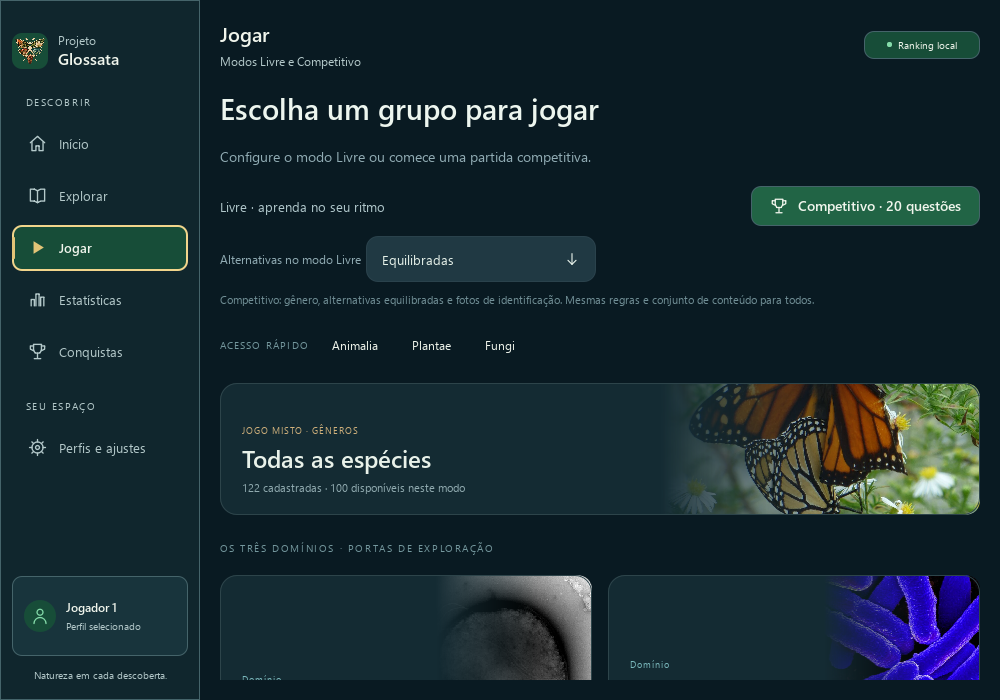
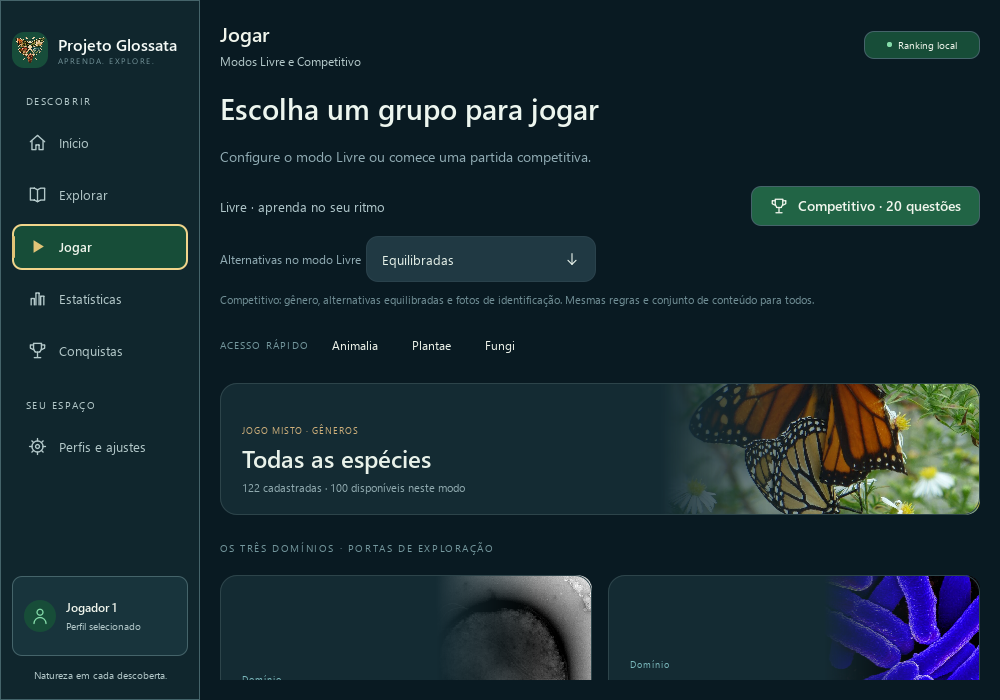
fix(ui): restaurar composição anterior da marca no PR 29

diff --git a/resources/qml/Main.qml b/resources/qml/Main.qml
@@ -164,13 +164,13 @@ ApplicationWindow {
                     Layout.bottomMargin: Style.Theme.spaceLg
                     spacing: Style.Theme.spaceSm
                     Rectangle {
-                        implicitWidth: 36; implicitHeight: 36; radius: Style.Theme.controlRadius; color: Style.Theme.forest
+                        implicitWidth: 36; implicitHeight: 36; radius: 12; color: "#174D3A"
                         Image { anchors.fill: parent; anchors.margins: 2; source: "qrc:/resources/branding/glossata.png"; fillMode: Image.PreserveAspectFit; smooth: true; mipmap: true }
                     }
                     ColumnLayout {
                         spacing: 0
-                        Label { text: "Projeto"; color: Style.Theme.textMuted; font.pixelSize: Style.Theme.captionSize }
-                        Label { text: "Glossata"; color: Style.Theme.text; font.pixelSize: Style.Theme.brandSize; font.weight: Font.DemiBold }
+                        Label { text: "Projeto Glossata"; color: "#F5FAF7"; font.pixelSize: Style.Theme.brandSize; font.weight: Font.DemiBold }
+                        Label { text: "APRENDA. EXPLORE."; color: "#739399"; font.pixelSize: 8; font.letterSpacing: 1.5 }
                     }
                 }
                 Label { text: "DESCOBRIR"; color: Style.Theme.textMuted; font.pixelSize: Style.Theme.sectionLabelSize; font.letterSpacing: 1.6; Layout.leftMargin: Style.Theme.navPadding; Layout.bottomMargin: Style.Theme.spaceXs }

diff --git a/docs/interface/VERSOES/2.1.3/README.md b/docs/interface/VERSOES/2.1.3/README.md
@@ -6,6 +6,8 @@ Subetapa exclusiva da [Issue #22](https://github.com/kaduolliver/Projeto-Glossat
 
 A barra lateral mantém o logotipo oficial e acrescenta Explorar entre Início e Jogar. Usa os tokens do design system, seleção e foco dos NavItem existentes. O cabeçalho mostra seção, contexto e acesso a Retomar partida quando aplicável. A largura lateral é 200 px na janela compacta e 220 px nas demais; margens principais de 20/32 px. O conteúdo continua rolável.
 
+Ajuste solicitado pelo mantenedor: restaurada a composição anterior da marca, com “Projeto Glossata” em uma linha e “APRENDA. EXPLORE.” abaixo. O ícone mantém os bytes originais; as demais alterações da 2.1.3 são preservadas. As 12 capturas e a Home canônica foram atualizadas. Compilação, qmllint e integridade aprovados; suíte Qt/QML reexecutada com oito casos aprovados (37,91 s).
+
 Explorar reutiliza CategoryView/TaxonomyView com `browsingOnly`; apresenta domínios, atalhos, fontes, breadcrumbs e grupos filhos. Oculta controles de partida. Jogar mantém Livre/Competitivo, dificuldade e níveis elegíveis. Os cartões e as fotografias existentes não foram reformulados. O botão da Home agora diz “Começar a jogar”, mantendo sua função.
 
 O contexto de navegação é separado do estado da sessão. Uma visita a outro grupo não muda questões, alternativas, dicas ou pontuação. Retornar pelo menu Jogar preserva feedback/ficha de resposta confirmada e resultados pendentes. Sair de uma partida continua exigindo o fluxo existente de encerramento; as decisões sobre recuperação permanecem explícitas.

diff --git a/docs/interface/CHANGELOG_UI.md b/docs/interface/CHANGELOG_UI.md
@@ -2,6 +2,8 @@
 
 ## 2.1.3 — Navegação e estrutura — 2026-10-20
 
+- Ajuste no mesmo PR: restaurada a composição anterior do logotipo, com nome em uma linha e assinatura “APRENDA. EXPLORE.”; capturas reais atualizadas, mantendo as demais alterações.
+
 - Barra lateral com seis destinos e tokens do tema; cabeçalho identifica seção e contexto, inclusive Créditos.
 - Explorar oferece navegação científica sem iniciar partida; Jogar mantém modos, filtros e conclusão. Breadcrumbs e retornos respeitam o contexto.
 - Alternância de seções preserva sessão, dicas, resposta confirmada e resultado pendente. Regressões exercitadas com SQLite temporário.
